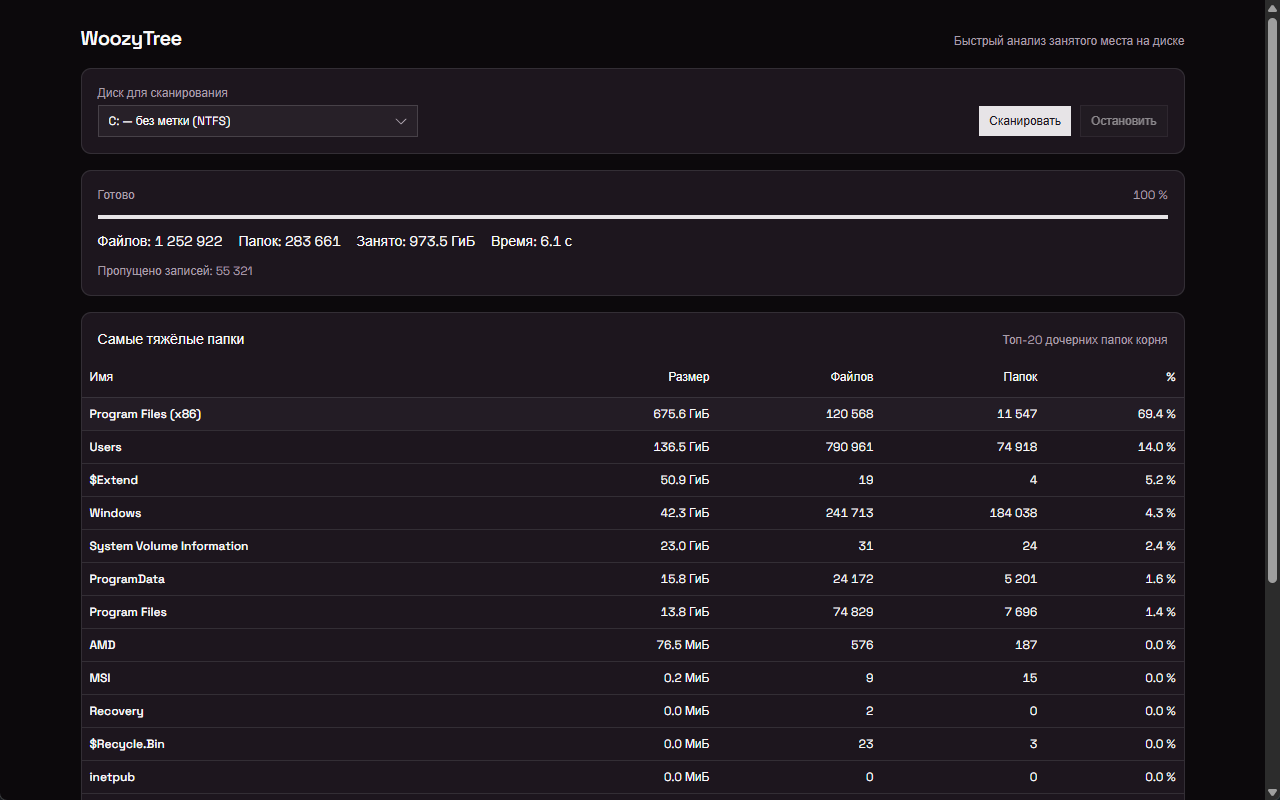
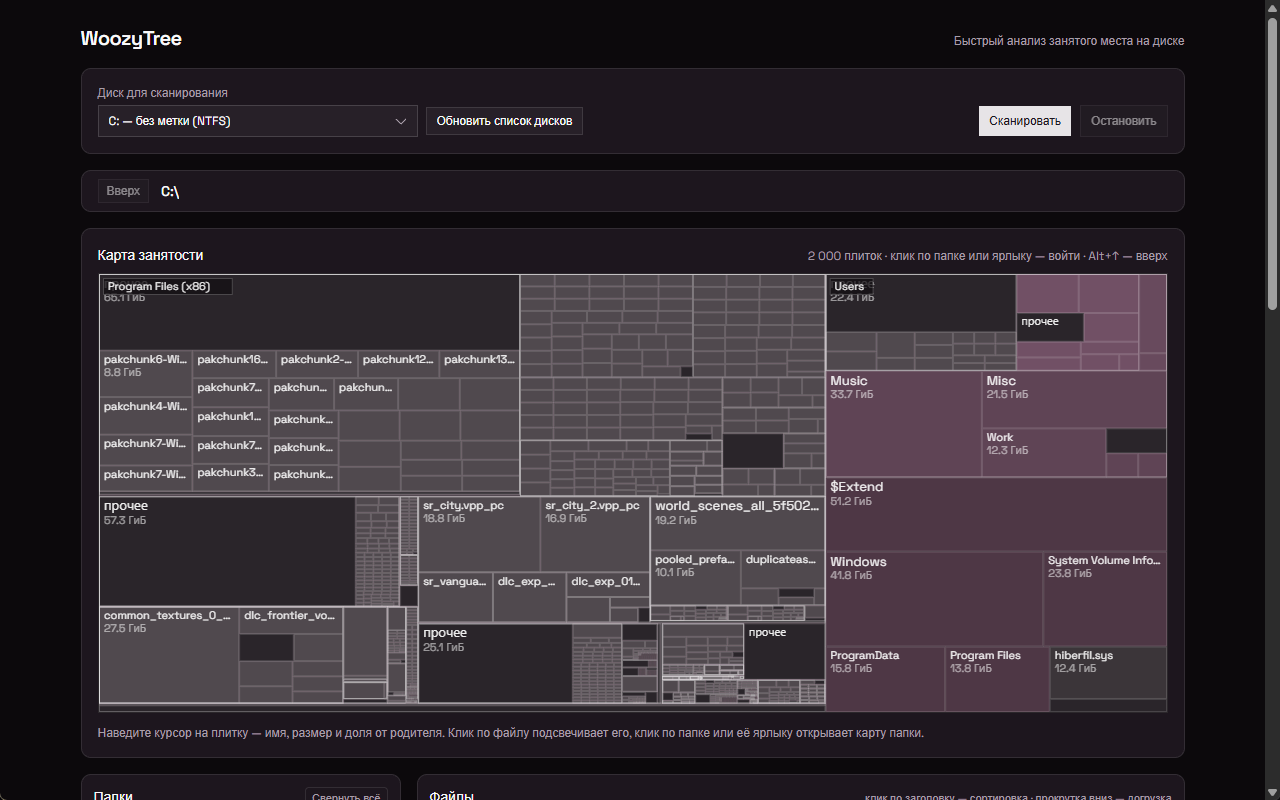
docs: README под фактические возможности

diff --git a/README.md b/README.md
@@ -1,12 +1,18 @@
 # WoozyTree
 
 Быстрый анализатор занятого места на диске для Windows — клон WizTree с тёмной
-темой. Читает таблицу MFT напрямую и показывает, чем занят диск: папки, размеры,
-количество файлов и их долю от родителя.
+темой. Читает таблицу MFT напрямую и показывает, чем занят диск: интерактивную
+карту занятости (она растёт вживую прямо во время сканирования), дерево папок,
+таблицу файлов и топ крупнейших папок.
 
 Стек: Rust + Tauri 2 + React + TypeScript + Vite + Tailwind CSS 4 + shadcn/ui.
 
 ![WoozyTree](docs/screenshot.png)
+
+Карта работает как зум: клик по папке или её ярлыку открывает вложенную карту,
+«Вверх» и хлебные крошки возвращают на нужный уровень. Во время сканирования
+карта и топ обновляются примерно раз в секунду, а дерево и таблица становятся
+доступны после его завершения.
 
 ## Как это работает
 
@@ -42,11 +48,15 @@ npm run tauri dev
 
 ```powershell
 cargo test --manifest-path src-tauri/Cargo.toml --lib
+npx vitest run
 ```
 
 Флаг `--lib` гоняет только юнит-тесты библиотеки. У bin-целей тестов нет, а
 тестовый харнесс главного бина унаследовал бы манифест `requireAdministrator` и
 без прав падал с `os error 740` — поэтому у него стоит `test = false`.
+
+`npx vitest run` прогоняет тесты интерфейса: чистые функции форматирования,
+прогресса, дерева папок и карты (хит-тест, вложенность, крошки).
 
 Тестовые фикстуры MFT генерируются синтетически и автоматически при первом
 обращении: реальные слепки диска в репозитории не хранятся (каталог
@@ -56,8 +66,9 @@ cargo test --manifest-path src-tauri/Cargo.toml --lib
 
 ## Утилиты
 
-`dump_mft` и `scan_bench C:` запускаются от администратора; режим
-`scan_bench --fixture` работает без прав.
+`dump_mft` и большинство режимов `scan_bench` запускаются от администратора;
+`scan_bench --fixture` и синтетические замеры (`--files`, `--diag`) работают без
+прав.
 
 ### dump_mft
 
@@ -79,7 +90,19 @@ cargo run --manifest-path src-tauri/Cargo.toml --bin dump_mft -- C: C:\Temp\mft\
 ### scan_bench
 
 Замеряет скорость сканирования и печатает итоги, топ папок и разбивку пропусков
-по причинам:
+по причинам. Режимы:
+
+- `scan_bench C:` — обычный замер: итоги, топ папок, время по фазам, пропуски;
+- `scan_bench --live C:` — тот же путь, что в приложении: `run_scan` с живыми
+  событиями топа и карты раз в секунду, замер пауз между ними;
+- `scan_bench --files 100000` — синтетическая папка на 100 000 файлов: цена
+  страницы таблицы и сортировок по каждой колонке;
+- `scan_bench --treemap C: 2000` — раскладка карты на готовом индексе с бюджетом
+  2 000 прямоугольников (проверка покрытия площади и числа плиток);
+- `scan_bench --fixture C:\Temp\mft\sample.mft` — скан слепка MFT без тома и без
+  прав администратора;
+- `scan_bench --diag C:\Temp\mft\sample.mft` — сколько имён разобрано из каждой
+  записи слепка (сверка с независимым разбором).
 
 ```powershell
 cargo run --manifest-path src-tauri/Cargo.toml --bin scan_bench -- C:
@@ -106,23 +129,53 @@ cargo run --manifest-path src-tauri/Cargo.toml --bin scan_bench -- --fixture C:\
 
 ## Известное ограничение
 
-Сейчас карта и топ папок заполняются по завершении сканирования. В следующей
-версии появятся treemap и «живые» данные по мере чтения MFT.
+Живая карта занятости, топ папок, дерево и таблица файлов уже работают: карта
+растёт во время сканирования, а после него панели показывают текущую папку.
+Чего в этой версии ещё нет:
+
+- поиска, фильтров и отбора по типам файлов;
+- действий с файлами (открыть, показать в Проводнике, удалить);
+- экспорта в CSV и настроек.
+
+Это следующий план (План 3).
+
+Ограничения данных:
+
+- `$ATTRIBUTE_LIST` не разбирается: имена из extension-записей теряются, поэтому
+  часть имён отсутствует в индексе (подробнее — «Границы точности»);
+- повторная жёсткая ссылка, чья первая копия лежит в другой папке, показывается
+  со 100 % от размера родителя — планируется 0 %, чтобы доля отражала реальный
+  вклад в занятое место.
 
 ## Структура проекта
 
 ```text
 src-tauri/src/          ядро сканирования (Rust)
   lib.rs                команды Tauri и состояние приложения
+  model.rs              DTO для интерфейса: папки, файлы, прямоугольники карты
   scan/volume.rs        загрузочный сектор и сырое чтение $MFT
   scan/mft.rs           разбор записей MFT и построение дерева
   scan/walk.rs          запасной обход папок (не-NTFS, сетевые диски, папка)
   scan/index.rs         индекс в памяти и агрегированные итоги
-  scan/mod.rs           выбор движка и сервис сканирования
+  scan/mod.rs           выбор движка и сервис сканирования с живыми событиями
+  treemap/layout.rs     раскладка карты: вложенные прямоугольники и бюджет
+  treemap/mod.rs        модуль карты
   bin/dump_mft.rs       утилита снятия слепков MFT
-  bin/scan_bench.rs     утилита замера скорости
+  bin/scan_bench.rs     замеры скорости, живой режим, карта, таблица
 src/                    интерфейс (React + TypeScript)
-  components/           панель, статус, топ папок, элементы shadcn/ui
-  lib/                  типы, IPC и форматирование
+  App.tsx               состояние приложения, путь навигации, подписки на события
+  components/Toolbar.tsx      выбор диска, старт и остановка сканирования
+  components/ScanStatus.tsx   хлебные крошки, прогресс и итоги
+  components/Treemap.tsx      canvas-карта: живой поток, зум, подсказки
+  components/FolderTree.tsx   ленивое дерево папок
+  components/FileTable.tsx    таблица файлов: сортировка и догрузка страниц
+  components/TopFolders.tsx   топ крупнейших папок
+  components/ui/              элементы shadcn/ui
+  lib/types.ts          TS-зеркало DTO из Rust
+  lib/ipc.ts            команды и события Tauri
+  lib/format.ts         размеры, числа и даты
+  lib/progress.ts       процент заполненности диска
+  lib/files.ts          чистые функции ленивого дерева папок
+  lib/treemap.ts        хит-тест, вложенность и крошки карты
 docs/                   скриншот и материалы разработки
 ```
